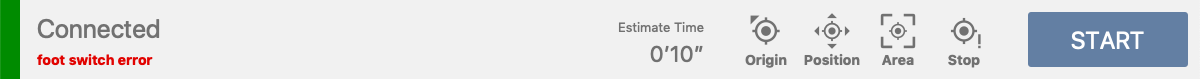
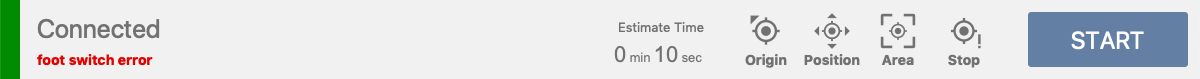
update estimate time image

Changed region(s): [[0.4933, 0.5823, 0.5858, 0.7848]]

diff --git a/manual/names.md b/manual/names.md
@@ -73,7 +73,7 @@ Click an item displayed in the item list to display and set the processing param
 
 In this area, you can get information about the processing machine and give operation instructions to the processing machine. The connection status with the processing machine is displayed as "connected" or "not connected". Also, if there is an error, the content of the error is also displayed.
 
-- Estimated processing time: Show the approximate machining time of the current project in hours: minutes 'seconds".
+- Estimated processing time: Show the approximate machining time of the current project in `hours` hr `minutes` min `seconds` sec.
 - Return to Origin : The processing machine checks the origin position of the laser head and eliminates the error of the head position.
 - Position: Switch to position check mode. In this mode, the icon of the laser head is displayed in the graphic area, and you can confirm the actual processing position of the object. Click this icon again to cancel the position check mode.
 - Check Area: The laser head of the processing machine indicates the processing range.
